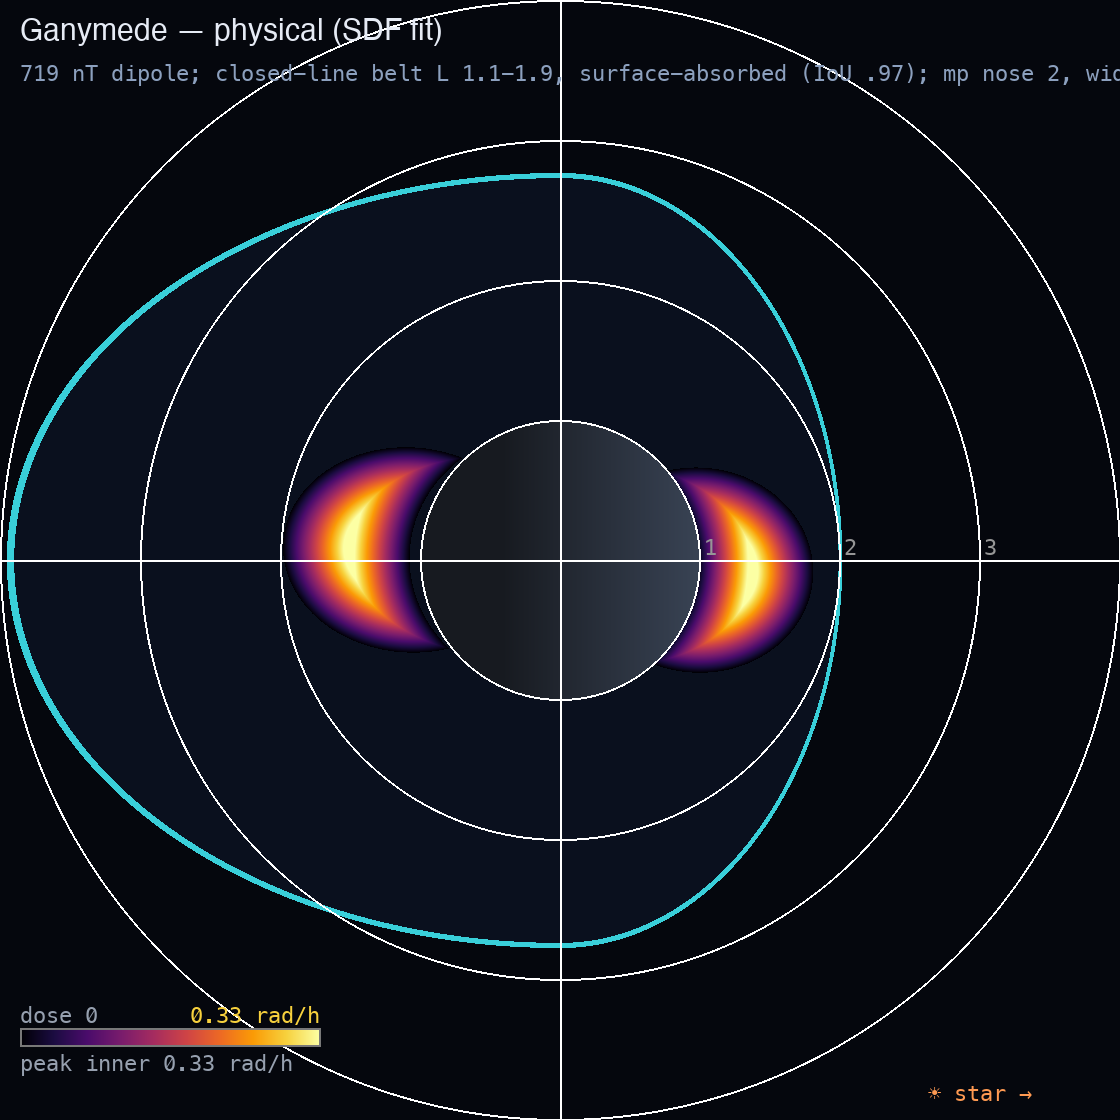
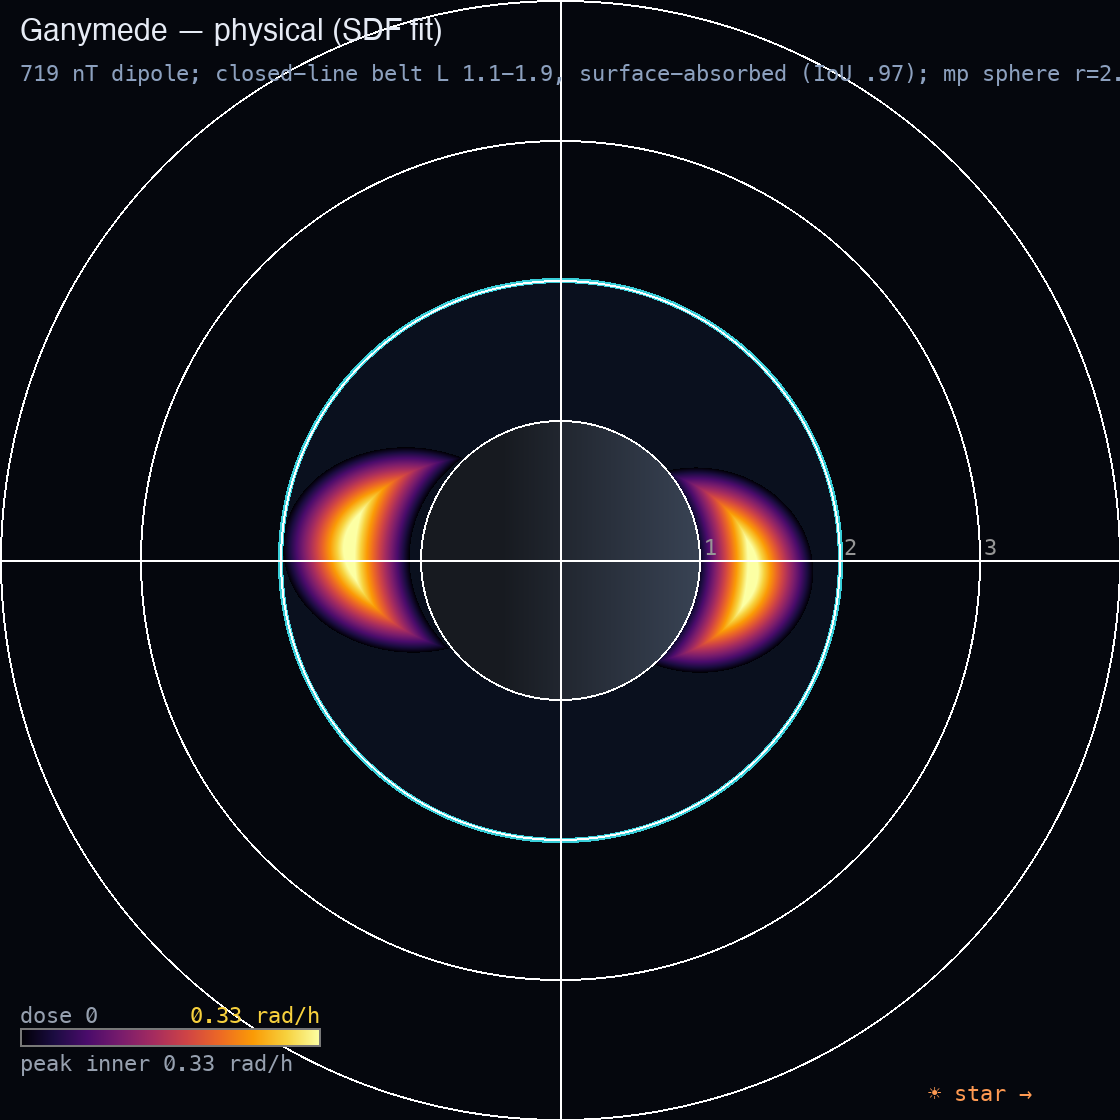
fix(belts): Ganymede's pause is a sphere, not a Shue tail
Kivelson 2013 (2013AGUFMSM12B..01K) reports Alfven wings "stretched almost
transverse to the upstream flow replacing tail lobes" — the Jovian flow at
Ganymede is sub-Alfvenic, so there is no bow shock and no swept magnetotail.
The Shue-like comp/ext pair was modelling a structure that does not exist.

Set rad 2.0 R_G with comp = ext = hscale = 1.0, a true sphere at the measured
standoff, and record the ~27% flank understatement that costs.

Also record the upstream-cfg audit in the header: Kerbalism's own
Radiation.cfg carries no comment justifying any number. The one near-
measurement is `giant` ("the magnetopause lies at a distance of between 60
and 70 RJ", consistent with our nose 63); `Sun` states target-first tuning
("we want ~0.01 rad/h at Kerbin"); the rest is flavour text. The stock values
are not unsourced — they were not based on anything.

Claude-Session: https://claude.ai/code/session_01Lqjp9dPZN5uKdu4n5sRG6A

diff --git a/scripts/viz/render_belts_bodies.py b/scripts/viz/render_belts_bodies.py
@@ -30,13 +30,43 @@ OUT=os.path.join(D,'wiki-img'); os.makedirs(OUT,exist_ok=True)
 # 검출하고(Kurth 1982) 토성이 그 안에 잠기는 것까지 관측된(Desch 1983) 그 현상과 맞는다.
 # 주의: 가니메데(알프벤 날개 영역, 태양풍이 아니라 목성 플라스마가 흐름)와 NearStars 바디는
 # 적용하지 않았다. 후자는 phase4 보드가 소스이므로 거기서 바꿔야 한다.
+# ---- 스톡 값의 근거: 상류 cfg 주석을 직접 확인한 결과 (2026-08-15) ----
+# 스톡 숫자가 무엇을 근거로 그 형상이 됐는지 알아보려고 Kerbalism 원본
+# GameData/KerbalismConfig/System/Radiation.cfg 의 저작자 주석을 전부 읽었다. 결론은
+# **숫자의 근거를 적은 주석이 하나도 없다** 는 것이다. 남아 있는 주석은 근거가 아니라 설정 서술이다.
+#   earth      "Use this when you tweak radiation belts, it helps. Promise." + Desmos 계산기 링크,
+#              NASA/위키 밴앨런 자료 — 즉 값을 눈으로 맞추는 도구를 안내한 것이지 도출이 아니다.
+#   giant      "the magnetopause lies at a distance of between 60 and 70 RJ" — 유일하게 실측에 가깝고,
+#              우리 노즈 63 R_J 와 부합한다. Pioneer 10 이 25만 rad 를 받았다는 서술이 함께 있다.
+#   irregular  "some unknown mechanism is producing a very weak, irregular field"
+#   ionosphere "lacking internal dynamo, the upper strate of atmosphere is ionized ... by the solar wind"
+#   metallic   "the body is deep in the star gravity well, and rich in heavy elements"
+#   solidiron  "radiation model for a giant's moon"        anomaly "...small but intense field at the poles"
+#   Sun(body)  "we want ~0.01 rad/h at Kerbin (d = 1 AU)"  ← 목표치를 정하고 역산했음을 저작자가 직접 밝힌다.
+#   Jool(body) 목성 자기장이 자전축에서 10.8° 기울고 극성이 반대라는 서술.
+#   그 외 바디는 주석이 전혀 없다.
+# 그러니 스톡 값은 "출처를 못 찾은" 것이 아니라 **저작자가 근거를 두지 않은** 값이다. 게다가
+# metallic·solidiron·anomaly 처럼 이름부터 KSP 가상 천체용 범용 모델이고, ROKerbalism 은 그걸 실제
+# 행성에 재바인딩만 한다 — 토성·천왕성·해왕성이 같은 `saturn` 모델을 공유하는 이유다.
+# 이것이 우리가 phys 프리셋을 전부 다시 도출한 이유이고, 아래 각 stock 항목의 주석은 그 대조다.
 BODIES={
  # ---- JUPITER: 스톡=원거리 통짜 동심, 물리=근접 D형 내대+납작 자기원반 ----
+ # 스톡은 Kerbalism/ROKerbalism 저작값이고 물리 도출이 아니다(전용 `jupiter` 모델).
+ # pause 60 / comp 1.05 → 노즈 57. 실측 노즈는 63 R_J 압축 · 92 팽창
+ #   (Joy 2002, https://ui.adsabs.harvard.edu/abs/2002JGRA..107.1309J) — 스톡이 10% 작다.
+ # 내대 6.0/1.0 = 적도 5-7 R_J / 실측 피크는 1.5-2 R_J (Divine & Garrett 1983,
+ #   https://ui.adsabs.harvard.edu/abs/1983JGR....88.6889D) — 강한 벨트를 3배 밖에 둔다.
+ # 외대 6.5/6.5 동심 구 / 실측은 납작한 적도 전류시트 (Khurana 1989,
+ #   https://ui.adsabs.harvard.edu/abs/1989JGR....9411791K).
  'jupiter_stock':{'title':'Jupiter — stock (ROKerbalism)','sub':'inner 6/1, outer 6.5/6.5 concentric','R':16,'tilt':10.3,
    'inner':{'radiation':300,'grad':3.3,'dist':6.0,'rad':1.0,'comp':1.05,'ext':0.9},
    'outer':{'radiation':50,'grad':2.2,'dist':6.5,'rad':6.5,'comp':1.05,'ext':0.85},
    'pause':{'radiation':-0.01,'rad':60,'comp':1.05,'ext':0.01,'hscale':1.02}},
  # phys 지오메트리 = fit_belts.py 수치 피팅(쌍극자 L-셸 타깃, IoU 명기). pause는 nose=rad/comp 의미론으로 계산.
+ # 도출 사슬(pause): 노즈 63 R_J (Joy 2002) + α 0.423 (Rutala 2025 S97*) →
+ #   pause_radius = 노즈·2^α = 84.4649, compression = 2^α = 1.3407,
+ #   extension = pause_radius/(150·노즈) = 0.0089380  ← L = 150×노즈 관례(도출 아님, 파일 머리말).
+ # 벨트: fit_belts.py 로 쌍극 L-셸에 수치 피팅(IoU 아래 캡션), 셸 경계는 위 논문들.
  'jupiter_phys':{'title':'Jupiter — physical (SDF fit)','sub':'dipolar inner L 1.2-3 (IoU .98) + magnetodisc slab 3-16 × ±3 (IoU .87)','R':18,'tilt':10.3,'offset':0.1,
    # grad/comp/ext = 방법론 Part C 도출값 (2026-08-13). 63 R_J standoff 안의 벨트라 eps~0.002 → 대칭이 물리값
    # (배포 1.05/0.9는 연출이었음). grad 내대: 피크 1.5-2 R_J (Divine & Garrett 1983).
@@ -49,9 +79,21 @@ BODIES={
 
  # ---- SATURN: 스톡=외대만, 물리=고리가 내대 소거→외대만(축대칭), CRAND 약함 ----
  # 스톡 값 검증: KSP-RO/ROKerbalism Support/RSS.cfg `saturn` 모델 (2026-07-24 재검증)
+ # 스톡은 저작값이고 물리 도출이 아니다. 게다가 이 `saturn` 모델 하나를 토성·천왕성·해왕성이
+ # 공유한다(세 바디 모두 outer 7/7, pause 20/comp 1.02 → 노즈 19.6).
+ # 실측 노즈는 24 R_S, 22-27 이중모드 (Achilleos 2008,
+ #   https://ui.adsabs.harvard.edu/abs/2008JGRA..11311209A) — 스톡이 18% 작다.
+ # 외대 7/7 = 적도 0-14 R_S 로 고리가 쓸어 간 구역까지 채운다 / 실측 셸은 L 2.3-6
+ #   (Kollmann 2013, https://ui.adsabs.harvard.edu/abs/2013Icar..222..323K).
+ # has_inner=false 는 맞다 — 고리가 내대 자리를 흡수한다 (Cooper 1983,
+ #   https://ui.adsabs.harvard.edu/abs/1983JGR....88.3945C).
  'saturn_stock':{'title':'Saturn — stock (ROKerbalism RSS.cfg)','sub':'saturn model: outer 7/7 only, pause 20/1.02','R':16,'tilt':0,
    'outer':{'radiation':150,'grad':2.2,'dist':7.0,'rad':7.0,'comp':1.05,'ext':0.95},
    'pause':{'radiation':-0.011,'rad':20,'comp':1.02,'ext':0.1,'hscale':1.0}},
+ # 도출 사슬(pause): 노즈 24 R_S (Achilleos 2008) + α 0.7358 (Kanani 2010 식 12) →
+ #   pause_radius = 노즈·2^α = 39.9677, compression = 2^α = 1.6653,
+ #   extension = pause_radius/(150·노즈) = 0.0111020  ← L = 150×노즈 관례(도출 아님).
+ # 벨트: fit_belts.py 수치 피팅, 셸 L 2.3-6 = Kollmann 2013.
  'saturn_phys':{'title':'Saturn — physical (SDF fit)','sub':'rings absorb inner belt; CRAND shell L 2.3-6 (IoU .98); ~0° tilt','R':16,'tilt':0.01,
    # grad/comp/ext = 방법론 Part C 도출값 (2026-08-13). eps 0.002 → 대칭. grad: 자기 프로파일 근거 없어 CRAND 아날로그(지구 외대)
    'outer':{'radiation':10,'grad':2.15,'dist':2.6173,'rad':2.3184,'dxy':0.6735,'comp':1.0,'ext':0.998,'bdist':0.9889,'brad':0.8883,'bdxy':0.6616},  # 고리 바깥 단일 초승달
@@ -60,10 +102,19 @@ BODIES={
 
  # ---- URANUS: 극단 tilt 59° + offset 0.3 ----
  # 스톡=generic `saturn` 모델 재사용(외대 7/7만; radiation_inner 75는 has_inner=false라 미사용 죽은 값)
+ # 즉 형상은 토성에서 복사된 저작값이고 천왕성용 도출이 아니다. pause 20/comp 1.02 → 노즈 19.6.
+ # 실측 노즈는 18.0 R_U (Ness 1986, https://ui.adsabs.harvard.edu/abs/1986Sci...233...85N) —
+ #   여기서는 스톡이 9% 크다. 배향(pole_lat 31.4 = 틸트 58.6°, offset 0.3)은 Ness 1986 과 일치한다.
+ # 외대 7/7 통짜 blob / 실측은 위성 소거로 갈린 두 셸 L 1.5-5 · 5-10 (Krimigis 1986,
+ #   https://ui.adsabs.harvard.edu/abs/1986Sci...233...97K; Cheng 1987,
+ #   https://ui.adsabs.harvard.edu/abs/1987JGR....9215315C).
  'uranus_stock':{'title':'Uranus — stock (ROKerbalism RSS.cfg)','sub':'generic saturn model: outer 7/7, pause 20; pole_lat 31.4, offset 0.3','R':22,'tilt':58.6,'offset':0.3,
    'outer':{'radiation':4,'grad':2.2,'dist':7.0,'rad':7.0,'comp':1.05,'ext':0.95},
    'pause':{'radiation':-0.010,'rad':20,'comp':1.02,'ext':0.1,'hscale':1.0}},
  # 벨트 구조 경계=위성 L-셸 (Krimigis 1986 Miranda 안쪽 예외역 + Cheng 1987 전자 극소: Miranda 5.1/Ariel 7.5/Umbriel 10.4)
+ # 도출 사슬(pause): 노즈 18 R_U (Ness 1986) + α 0.58 (적합 없음 → 지구값 유추, 파일 머리말) →
+ #   pause_radius = 노즈·2^α = 26.9073, compression = 2^α = 1.4948,
+ #   extension = pause_radius/(150·노즈) = 0.0099653  ← L = 150×노즈 관례(도출 아님).
  'uranus_phys':{'title':'Uranus — physical (SDF fit)','sub':'tilt 59°, offset 0.3; L 1.5-5 / 5-10 Miranda·Umbriel cut (IoU .98/.97)','R':22,'tilt':59,'offset':0.3,
    # grad/comp/ext = 방법론 Part C 도출값 (2026-08-13). grad: 프로파일이 위성-소거 극소 사이 넓은 최대(Cheng 1987)라
    # 피크가 껍질 핵심 → 컷 이후 최심점으로 클램프한 하한값. 1.0을 그대로 넣으면 포화 지점이 없어 실효 강도가 0.64배로 깎임.
@@ -74,9 +125,18 @@ BODIES={
 
  # ---- NEPTUNE: tilt 47° + offset 0.55, 외곽 Triton 컷 ----
  # 스톡=generic `saturn` 모델 재사용(pause 20 — 26.5 아님; radiation_inner 39 미사용 죽은 값)
+ # 형상은 토성에서 복사된 저작값이고 해왕성용 도출이 아니다. pause 20/comp 1.02 → 노즈 19.6.
+ # 실측 노즈는 26.5 R_N (Ness 1989, https://ui.adsabs.harvard.edu/abs/1989Sci...246.1473N) —
+ #   스톡이 26% 작다. 배향(pole_lat 43 = 틸트 47°, offset 0.55)은 Ness 1989 와 일치한다.
+ # 외대 7/7 통짜 blob / 실측은 셸 L 1.5-5 · 5-14, 피크 L≈7 (Stone 1989,
+ #   https://ui.adsabs.harvard.edu/abs/1989Sci...246.1489S), 외곽 컷은 Triton 궤도 ~14 R_N
+ #   (Krimigis 1989, https://ui.adsabs.harvard.edu/abs/1989Sci...246.1483K).
  'neptune_stock':{'title':'Neptune — stock (ROKerbalism RSS.cfg)','sub':'generic saturn model: outer 7/7, pause 20; pole_lat 43, offset 0.55','R':28,'tilt':47,'offset':0.55,
    'outer':{'radiation':2.5,'grad':2.2,'dist':7.0,'rad':7.0,'comp':1.05,'ext':0.95},
    'pause':{'radiation':-0.007,'rad':20,'comp':1.02,'ext':0.1,'hscale':1.0}},
+ # 도출 사슬(pause): 노즈 26.5 R_N (Ness 1989) + α 0.58 (적합 없음 → 지구값 유추) →
+ #   pause_radius = 노즈·2^α = 39.6135, compression = 2^α = 1.4948,
+ #   extension = pause_radius/(150·노즈) = 0.0099653  ← L = 150×노즈 관례(도출 아님).
  'neptune_phys':{'title':'Neptune — physical (SDF fit)','sub':'tilt 47°, offset 0.55 R_N; shells L 1.5-5 / L 5-14 Triton cut (IoU .98/.97)','R':28,'tilt':47,'offset':0.55,
    # grad/comp/ext = 방법론 Part C 도출값 (2026-08-13). grad 외대: 피크 L7 (Stone 1989), 내대: 프로파일 없어 지구 내대 아날로그
    'inner':{'radiation':30,'grad':2.09,'dist':2.1836,'rad':1.93,'dxy':0.6732,'comp':1.0,'ext':0.999,'bdist':0.0563,'brad':0.8488,'bdxy':0.3727},
@@ -85,16 +145,29 @@ BODIES={
             'shue_alpha':0.58,'shue_nose':26.5,'shue_tail':3975}},  # nose 26.5 R_N (Ness 1989)
 
  # ---- MERCURY: 벨트 없음, 초소형 offset 자기권 (표면 직격) ----
+ # 스톡은 저작값이고 물리 도출이 아니다(전용 `mercury` 모델). pause 1.6/comp 1.4 → 노즈 1.14.
+ # 실측 노즈는 1.45 R_M, 1.35-1.55 (Winslow 2013,
+ #   https://ui.adsabs.harvard.edu/abs/2013JGRA..118.2213W) — 스톡이 21% 작다(빡빡한 쪽).
+ # 벨트 없음은 맞다 — 자기권이 너무 작고 요동쳐 안정 포획이 안 된다 (Schriver 2015,
+ #   https://ui.adsabs.harvard.edu/abs/2015AGUFM.P53A2089S). offset 0.208 도 실측 0.198 에 근접.
  'mercury_stock':{'title':'Mercury — stock (ROKerbalism)','sub':'no belt; pause 1.6/1.4 (nose 1.14), pole_lat 96, offset 0.208, deform 0.1','R':3,'tilt':6,'offset':0.208,
    'pause':{'radiation':-0.001,'rad':1.6,'comp':1.4,'ext':0.05,'hscale':1.0,'deform':0.1}},  # pause_deform=0.1 그대로 반영 (2026-08-04 누락 수정): 다중극 경계의 비축대칭 로브
  'mercury_phys':{'title':'Mercury — physical','sub':'no stable belt; mp nose 1.45 R_M, offset 0.20 north, tilt <3°, deform 0.1','R':3,'tilt':2,'offset':0.20,
    # Winslow 2013 은 MESSENGER 통과를 Shue 형식으로 적합했다: R_ss 1.45 R_M, flaring α 0.5
+   # 도출 사슬(pause): pause_radius = 노즈·2^α = 2.0506, compression = 2^α = 1.4142,
+   #   extension = pause_radius/(150·노즈) = 0.0094280  ← L = 150×노즈 관례(도출 아님).
+   # deform 0.1 은 스톡에서 상속(다중극 비축대칭은 실재하나 진폭은 도출하지 않았다).
    'pause':{'radiation':-0.001,'rad':2.0506,'comp':1.4142,'ext':0.0094280,'hscale':1.0,'deform':0.1,
             'shue_alpha':0.5,'shue_nose':1.45,'shue_tail':217.5}},  # nose 1.45 R_M (Winslow 2013); deform 유지 — 실제 자기장이 offset dipole + 고차 다중극
 
  # ---- VENUS: 다이나모 없음 → 유도 자기권(전리층 pause만, 벨트 없음) ----
  # ROKerbalism: RadiationBody[Eve]→Venus, radiation_model = ionosphere, radiation_pause = -0.005.
  # ionosphere 모델 = pause_radius 1.1 / extension 0.2 (System/Radiation.cfg). 벨트 필드 자체가 없다.
+ # 이 `ionosphere` 모델도 저작값이고 금성 실측에서 도출된 값이 아니다(Titan 과 공유).
+ # 실측 이오노포즈는 직하 1.055 · 명암경계선 1.140 R_V (Brace 1980,
+ #   https://ui.adsabs.harvard.edu/abs/1980JGR....85.7663B) — 스톡의 균일 1.1 은 앞쪽이 헐겁다.
+ # 꼬리는 스톡이 1.1/0.2 = 5.5 R_V 에서 닫히는데, 확정 IMB 횡단은 20 R_V 까지 있다
+ #   (Edberg 2024, https://ui.adsabs.harvard.edu/abs/2024JGRA..12932603E).
  'venus_stock':{'title':'Venus — stock (ROKerbalism)','sub':'ionosphere model: pause 1.1/ext 0.2, no belts (induced magnetosphere)','R':22,'tilt':0,
    'pause':{'radiation':-0.005,'rad':1.1,'ext':0.2,'hscale':1.0}},
 
@@ -118,6 +191,10 @@ BODIES={
  # 관례이고, comp 는 그 smooth 에서 노즈가 정확해지도록 다시 풀었다. 폭 상한이 rad 라 대가는 없다.
  # 후류 폭은 실측 원뿔(Martinecz 2009 / Edberg 2024, arXiv:2410.21856)보다 좁다(d2 −15%,
  # d5 −33%, d10 −54%). 불룩함 금지가 우선이라 받아들인 값이다. 방법론 Part A 참조.
+ # 도출 사슬(pause): rad = 명암경계선 1.14 R_V (Brace 1980), comp 1.0151 = 그 smooth 에서 노즈
+ #   1.055 가 정확해지도록 푼 값, ext = rad/(150·노즈) = 0.0072038 → 꼬리 158 R_V.
+ #   (위 문단의 "꼬리 20 R_V" 는 L 관례 확정 전 표현이다. 20 R_V 는 확정 IMB 횡단의 최원거리
+ #    하한이고, 158 은 그 하한을 넘기는 L = 150×노즈 관례값이다.)
  'venus_phys':{'title':'Venus — physical (induced)','sub':'generalized stock pause: nose 1.055 / terminator 1.13 exact, tail 20 R_V, no rear bulge; no belts','R':22,'tilt':0,
    'pause':{'radiation':-0.005,'rad':1.14,'comp':1.0151,'ext':0.0072038,'hscale':1.0,
             'smooth':0.57,'waist':0.0}},
@@ -126,6 +203,10 @@ BODIES={
  # 업스트림 Kerbalism: RadiationBody[Duna] = irregular, radiation_pause = -0.003.
  # ROKerbalism 의 RSS.cfg 는 +RadiationBody[Duna]{@name = Mars} 로 복사하지만, 그들 자신의
  # System/Radiation.cfg 에는 Duna 정의가 없다 → 그 조합에서는 화성에 RadiationBody 가 안 생긴다(배포 갭).
+ # 이 `irregular` 모델도 저작값이고 화성 실측 도출이 아니다. pause 1.25/comp 1.1 → 노즈 1.14.
+ # 실측 MPB 는 직하 1.29 ± 0.04 · 명암경계선 1.47 ± 0.08 R_M (Vignes 2000,
+ #   https://ui.adsabs.harvard.edu/abs/2000GeoRL..27...49V) — 스톡이 앞도 옆도 작다.
+ # 꼬리는 스톡이 1.25/0.75 = 1.7 R_M 에서 닫힌다(유도 자기꼬리 실측 대비 훨씬 짧다).
  'mars_stock':{'title':'Mars — stock (Kerbalism irregular)','sub':'irregular model: pause 1.25/comp 1.1/ext 0.75/deform 0.1 — crustal-anomaly look; no belts','R':22,'tilt':0,
    'pause':{'radiation':-0.003,'rad':1.25,'comp':1.1,'ext':0.75,'hscale':1.0,'deform':0.1}},
 
@@ -141,11 +222,19 @@ BODIES={
  # 검증: 그 각도면 주간면 원의 명암경계선 기울기 0.135 와 야간면 원뿔 0.131 이 3% 안에서 접합된다(설계 아님).
  # pause_deform 0.1 은 스톡 irregular 에서 물려받은 값이다 — 지각 잔류자기의 비축대칭성을 뜻하지만
  # 크기는 도출하지 않았다(Vignes 는 남북 비대칭을 정량화하지 않는다).
+ # 도출 사슬(pause): rad = 명암경계선 1.47 R_M (Vignes 2000), comp 1.0684 = smooth 0.735 에서
+ #   노즈 1.285 가 나오도록 푼 값, ext = rad/(150·노즈) = 0.0076265 → 꼬리 193 R_M (L 관례).
  'mars_phys':{'title':'Mars — physical (MPB fit)','sub':'generalized stock pause: nose 1.285 / terminator 1.47 exact, tail 20 R_M, no rear bulge; no belts','R':22,'tilt':0,
    'pause':{'radiation':-0.003,'rad':1.47,'comp':1.0684,'ext':0.0076265,'hscale':1.0,'deform':0.1,
             'smooth':0.735,'waist':0.0}},
 
  # ---- EARTH: 앵커 (스톡=튜닝 모델) vs 물리 (standoff 10, 외대 heart L~4.5) ----
+ # 스톡은 저작값이지만 이 바디에서는 저작자가 제대로 맞췄다(전용 `earth` 모델).
+ # pause 15/comp 1.5 → 노즈 10 R_E = 실측 standoff 와 일치 (Shue 1998,
+ #   https://ui.adsabs.harvard.edu/abs/1997JGR...102.9497S; Fairfield 1971).
+ # 내대 적도 1.29-2.0 R_E ↔ 실측 피크 L≈1.5 (Ripoll 2016,
+ #   https://ui.adsabs.harvard.edu/abs/2016GeoRL..43.5616R), 외대 3.45-6.0 ↔ heart L 4-5, L 3-7
+ #   (Reeves 2013, https://ui.adsabs.harvard.edu/abs/2013Sci...341..991R) — 슬롯까지 성격이 맞다.
  'earth_stock':{'title':'Earth — stock (ROKerbalism)','sub':'inner 0.81/0.70 (D), outer 2.63/2.48 (O), pause 15','R':12,'tilt':11,
    'inner':{'radiation':10.376,'grad':3.3,'dist':0.813,'rad':0.70,'dxy':0.572,'comp':1.01,'ext':1.0,'bdist':1e-4,'brad':0.915,'bdxy':0.5},
    'outer':{'radiation':2.214,'grad':2.2,'dist':2.6338,'rad':2.48,'dxy':0.7225,'comp':1.01,'ext':1.0,'bdist':1.4412,'brad':1.4875,'bdxy':0.7225},
@@ -156,17 +245,39 @@ BODIES={
    'inner':{'radiation':10.376,'grad':2.09,'dist':0.9413,'rad':0.7698,'dxy':0.7314,'comp':1.001,'ext':0.999,'bdist':1e-4,'brad':1.1836,'bdxy':1.0505},  # 내대 하한=1000km(loss-cone 고갈 경계). grad: 피크 L1.5(Ginet 2013)
    'outer':{'radiation':2.214,'grad':2.15,'dist':3.0123,'rad':2.7018,'dxy':0.662,'comp':1.025,'ext':0.953,'bdist':1.3175,'brad':1.1596,'bdxy':0.6748},  # L3-7, 보더 카브=슬롯. grad: heart L4.5 → 배포 2.2 복원
    # Shue 기준선: 적합값이 있는 바디에만 넣는다(Shue 1998 지구 α 0.58, 노즈 10 R_E, 꼬리 관측 ~200)
+   # 도출 사슬(pause): 노즈 10 R_E (Shue 1997/1998) + α 0.58 (Shue 1998 식 11) →
+   #   pause_radius = 노즈·2^α = 14.9485, compression = 2^α = 1.4948,
+   #   extension = pause_radius/(150·노즈) = 0.0099653  ← L = 150×노즈 관례(도출 아님).
    'pause':{'radiation':-0.01,'rad':14.9485,'comp':1.4948,'ext':0.0099653,'hscale':1.1,
             'shue_alpha':0.58,'shue_nose':10,'shue_tail':1500}},  # nose 15/1.5=10 R_E — 스톡과 동일(스톡이 이미 정확)
 
  # ---- GANYMEDE: 약장 임베디드 미니자기권 (Kivelson 2002: 719nT, standoff ~2 R_G, open caps) ----
+ # 스톡은 저작값이고 물리 도출이 아니다(전용 `ganymede` 모델). 계면 자체가 없다(has_pause 미정의).
+ # 실측은 상류 standoff ~2 R_G, 폭 5.5 R_G 의 자기권이 실재한다 (Kivelson 1998,
+ #   https://ui.adsabs.harvard.edu/abs/1998JGR...10319963K) — 스톡의 가장 큰 누락.
+ # 내대 0.8/0.6 / 실측은 폐자력선 벨트 L 1.1-1.9, 표면에서 흡수 (Allioux 2013,
+ #   https://ui.adsabs.harvard.edu/abs/2013AdSpR..51.1204A).
  'ganymede_stock':{'title':'Ganymede — stock (ROKerbalism)','sub':'inner 0.8/0.6, no pause defined','R':4,'tilt':4,
    'inner':{'radiation':0.33,'grad':3.3,'dist':0.8,'rad':0.6}},
- 'ganymede_phys':{'title':'Ganymede — physical (SDF fit)','sub':'719 nT dipole; closed-line belt L 1.1-1.9, surface-absorbed (IoU .97); mp nose 2, width 5.5','R':4,'tilt':4,
+ 'ganymede_phys':{'title':'Ganymede — physical (SDF fit)','sub':'719 nT dipole; closed-line belt L 1.1-1.9, surface-absorbed (IoU .97); mp sphere r=2.0 R_G, no tail (Alfven wings)','R':4,'tilt':4,
    # grad/comp/ext = 방법론 Part C 도출값 (2026-08-13). eps 0.139(작은 standoff의 큰 몫을 벨트가 채움)이라
    # 도출 comp 1.052가 배포값 1.05를 되찾음 — 이 바디가 비대칭 레시피의 검증 앵커다.
    'inner':{'radiation':0.33,'grad':2.09,'dist':0.8758,'rad':0.7327,'dxy':0.715,'comp':1.052,'ext':0.958,'bdist':0.0222,'brad':0.9408,'bdxy':0.8693},  # 무대기 → 컷=표면(r=1.0)
-   'pause':{'radiation':-0.01,'rad':2.75,'comp':1.375,'ext':0.7,'hscale':1.0}},  # nose 2.0 / 폭 5.5 R_G (Kivelson 1998)
+   # 도출 사슬(pause): 실측 직하 standoff 2.0 R_G (Kivelson 1998) 를 그대로 반지름으로 삼은 구다 →
+   # rad 2.0, comp = ext = hscale = 1.0. 다른 바디의 노즈·2^α 사슬을 쓰지 않는다(아래 이유).
+   # 정직하게 적자면 실제 경계는 구가 아니다 — Kivelson 1998 은 노즈 2 R_G, 폭 5.5 R_G 를 주므로
+   # 플랭크는 2.75 R_G 이고, standoff 반지름의 구는 옆구리를 약 27% 작게 그린다. 그럼에도 구를
+   # 택한 이유는 둘이다. (1) 실제 형상을 지배하는 것은 흐름에 거의 수직으로 뻗은 알프벤 날개인데
+   # (Kivelson 2013, https://ui.adsabs.harvard.edu/abs/2013AGUFMSM12B..01K — "Alfvén wings
+   # stretched almost transverse to the upstream flow replacing tail lobes folded back in the
+   # flow direction"), 엔진의 형상족(압축/신장 두 계수로 눌린 구)은 날개를 아예 표현하지 못한다.
+   # 어떤 값을 넣어도 옳아지지 않는 축이라 플랭크를 맞추는 편평 구가 더 정확하지도 않다.
+   # (2) 그 편평 구는 3D 뷰에서 흐름축으로 눌린 원반처럼 읽혔고, 얻는 것 없이 오해만 만들었다.
+   # 꼬리는 여전히 없다 — 가니메데는 태양계에서 유일하게 아음속이 아니라 sub-Alfvénic 흐름 안에
+   # 자기권이 서고, 그런 흐름은 뒤로 접힌 꼬리 로브를 만들지 않는다. 그래서 ext = comp 로 야간면을
+   # 주간면과 대칭으로 닫고(닫힘 2.0 R_G = 노즈와 같음), 이 바디에는 L = 150×노즈 관례도 적용하지
+   # 않는다(파일 머리말의 제외 항목).
+   'pause':{'radiation':-0.01,'rad':2.0,'comp':1.0,'ext':1.0,'hscale':1.0}},
 
  # ---- PROXIMA d: 16 G SPI 관측장 (Zapatero Osorio 2026) → 지구급 자기권 + 강한 포획 벨트 ----
  # 기하 도출(자기권 기하 방법론 Chapman-Ferraro): B_eq = 극장 16 G / 2 = 8 G;
@@ -178,6 +289,8 @@ BODIES={
  #   kp_limit.py 검증: L=4, n_cold 1-100 cm⁻³서 CmCk ≪ 1 → K-P 상한 비구속(source-set).
  #   주의: 앵커쌍(지구·목성) 밖 외삽(B_eq 1.9× 목성)이라 신뢰 낮음; 장 범위 3-280 G면
  #   2×10²-10⁶ rad/h. dipole tilt 미지 → 지구형 10° 가정 명기.
+ # 도출 사슬(pause): 노즈 7 R_d = Chapman-Ferraro (위 계산). comp 1.5 · ext 0.07474 는 지구 스톡
+ #   pause 형상(15/1.5)을 그대로 스케일한 값이고 이 바디의 α 는 적합되지 않았다 — 근거 미확인.
  'proxima_d_phys':{'title':'Proxima Cen d — physical (16 G SPI)','sub':'B_p 16 G → mp nose ~7 R_d (4-18 over 3-280 G); shells L 1.2-2 / 3-5.5; dose anchor-interp (low conf); tilt unknown (10° drawn)','R':12,'tilt':10,
    # grad/comp/ext = 방법론 Part C 도출값 (2026-08-13). 지구 프리셋서 복사돼 있던 comp/ext를 교체:
    # 외대 핵심이 nose의 47%(eps 0.107)라 이 바디는 실제로 비대칭이어야 한다 → 1.053/0.901. grad는 지구 아날로그.
